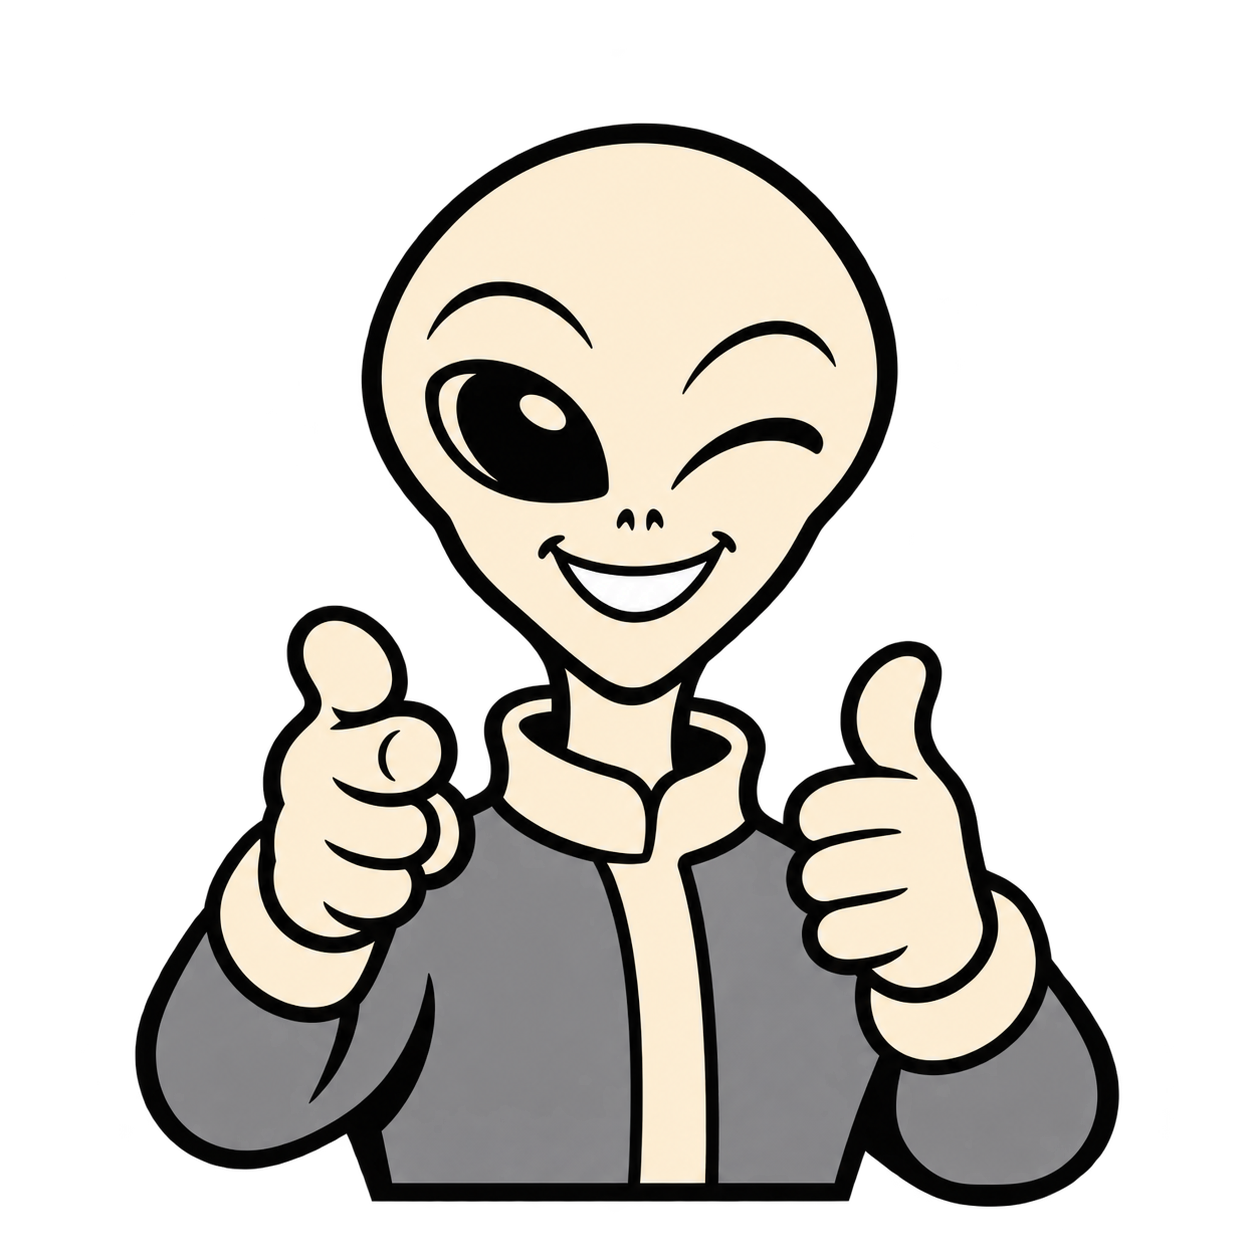
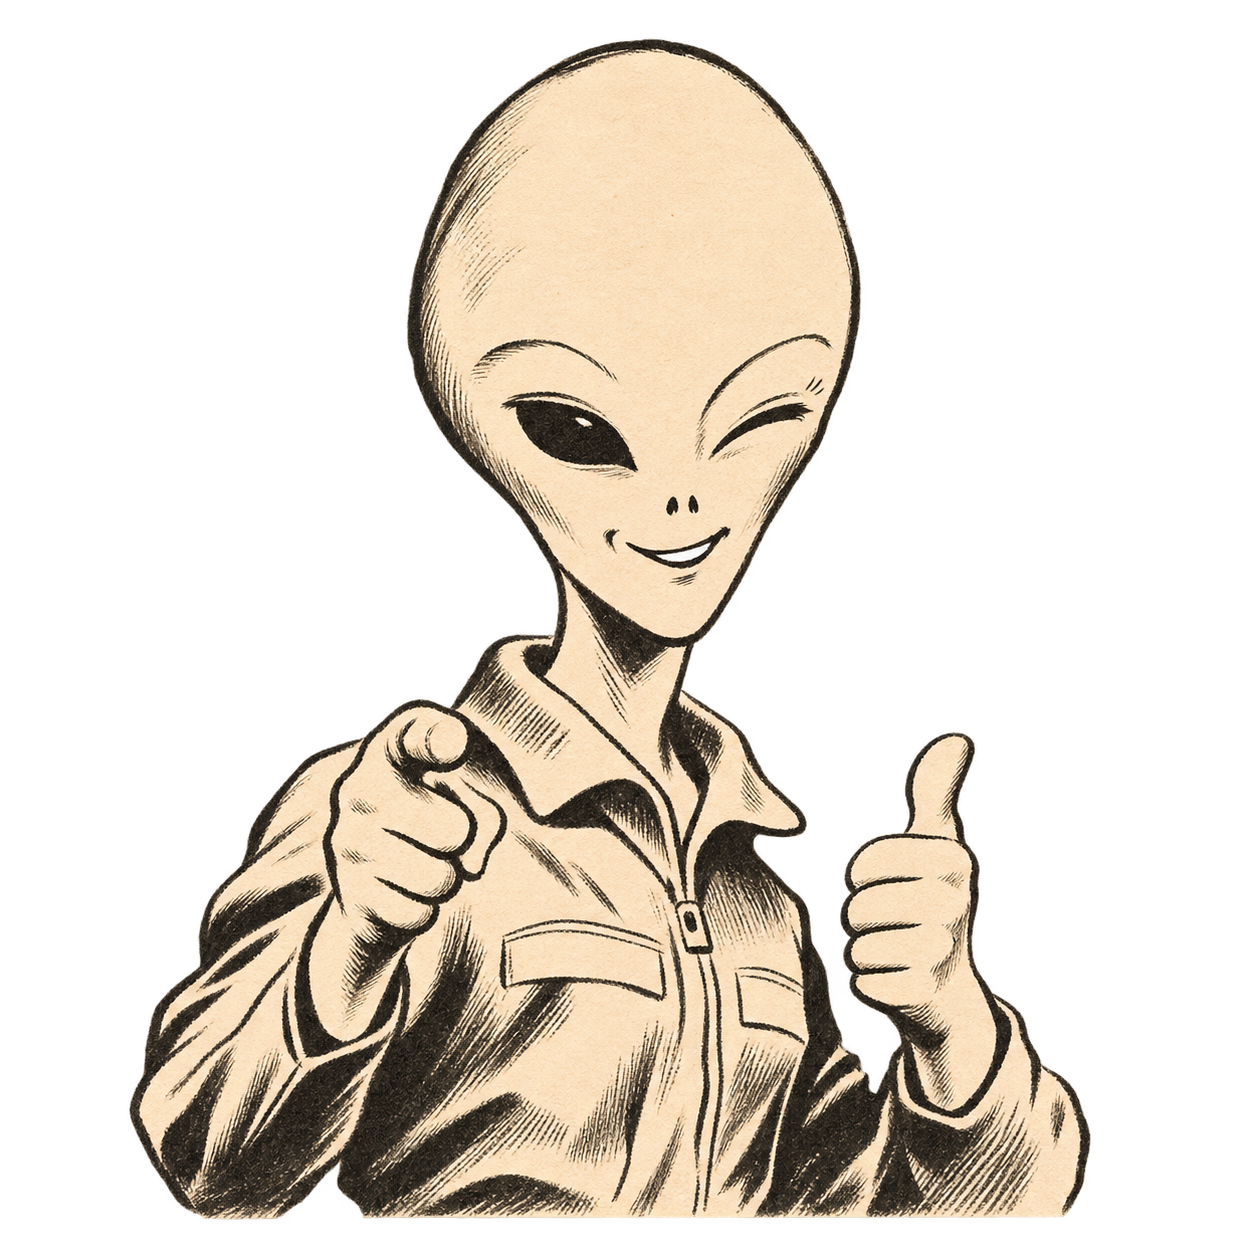
Revise standby alien with vintage pen-and-ink styling (#21)

diff --git a/uap-lab/static/index.html b/uap-lab/static/index.html
@@ -1,4 +1,4 @@
-<!doctype html><html lang="en"><head><meta charset="utf-8"><meta name="viewport" content="width=device-width,initial-scale=1"><title>UAP Training Lab</title><link rel="stylesheet" href="/app-shell.css?v=3"><script src="/app-shell.js?v=5" defer></script><link rel="stylesheet" href="/style.css?v=right-back-3"></head><body class="live-mode">
+<!doctype html><html lang="en"><head><meta charset="utf-8"><meta name="viewport" content="width=device-width,initial-scale=1"><title>UAP Training Lab</title><link rel="stylesheet" href="/app-shell.css?v=3"><script src="/app-shell.js?v=5" defer></script><link rel="stylesheet" href="/style.css?v=right-back-4"></head><body class="live-mode">
 <header class="app-controls"><button id="menuToggle" class="icon-button" aria-label="Open navigation" aria-expanded="false" aria-controls="mainNav"><svg viewBox="0 0 24 24" aria-hidden="true" focusable="false"><path d="M3 6h18M3 12h18M3 18h18"/></svg></button><nav id="mainNav" aria-label="Main navigation" hidden><button id="liveTab" class="active">Camera</button><button id="labelTab">Review detections</button><button id="testTab">Test model</button><a href="/metrics">Metrics</a><a href="/training">Hourly training</a><a href="/tracks">Labeled objects</a></nav><button id="infoToggle" class="icon-button" aria-label="Open information" aria-expanded="false" aria-controls="infoPanel"><svg viewBox="0 0 24 24" aria-hidden="true" focusable="false"><path d="M12 10v8M10 18h4"/><circle cx="12" cy="6" r="1" fill="currentColor" stroke="none"/></svg></button><aside id="infoPanel" aria-label="Live information" hidden><h2>Live</h2><p>Original video is continuously buffered on the SSD. Motion candidates create provisional clips; they are not confirmed anomalies.</p><p id="publishStatus" class="muted" role="status" hidden></p><p>Capture-first mode: motion candidates save provisional evidence. They are not confirmed anomalies.</p><p>Native frames are processed in sequence, with backlog and missing frames reported below. Event windows request 10 seconds of context before and after motion; interruptions and shortened windows are recorded. Native-frame proposals are classified locally. Confirm or correct saved suggestions in labeling. Uncertain and failed results remain available for review. Model suggestions remain unconfirmed. Only anomalous sessions confirmed in the web UI are uploaded to Internet Archive, with raw and annotated video.</p><p id="recognitionStatus" class="muted" role="status">Local recognition starting…</p><p id="nativeAnalysisStatus" class="muted" role="status">Native analysis starting…</p><p class="muted">The session switch controls manual recording. Automatic provisional capture remains armed. RF power is shown in relative dB, not calibrated dBm.</p></aside></header>
 <main><div id="notice" role="status" aria-live="polite">Loading videos…</div>
 <section id="labelLibrary"><label for="labelSource">Review queue</label><select id="labelSource"><option value="all">All unreviewed videos</option><option value="recorded">Recorded clips</option><option value="model-detection">Model detections</option><option value="motion-collection">Motion collection</option><option value="imported">Imported videos</option></select><label for="labelVideo">Choose a video to label</label><select id="labelVideo"><option value="">Loading recordings…</option></select><p id="labelQueueStatus" class="muted" role="status"></p></section><div id="labelScreen"><div class="video-heading"><div><p id="queueProgress" class="muted"></p><h2 id="videoTitle">Your next video</h2></div><label class="upload">Add video<input type="file" id="upload" accept="video/*,.mkv,.mts" hidden></label></div><progress id="uploadProgress" max="100" value="0" hidden></progress>
@@ -15,6 +15,6 @@
 <div class="test-grid" aria-hidden="true"></div>
 <div class="test-bars test-bars-top" aria-hidden="true"></div><div class="test-bars test-bars-bottom" aria-hidden="true"></div>
 <div class="test-ring" aria-hidden="true"><span class="test-cross test-cross-h"></span><span class="test-cross test-cross-v"></span></div>
-<div class="test-message"><div class="test-portrait" aria-hidden="true"><img class="test-emblem" src="/ufo-engraving.png?v=buddy-flat-8" alt=""></div><strong>WE'LL BE RIGHT BACK</strong><span class="test-standby">PLEASE STAND BY</span></div>
+<div class="test-message"><div class="test-portrait" aria-hidden="true"><img class="test-emblem" src="/ufo-engraving.png?v=buddy-vintage-9" alt=""></div><strong>WE'LL BE RIGHT BACK</strong><span class="test-standby">PLEASE STAND BY</span></div>
 <svg class="test-grain" aria-hidden="true" focusable="false" xmlns="http://www.w3.org/2000/svg"><defs><filter id="crt-grain"><feTurbulence type="fractalNoise" baseFrequency=".8" numOctaves="1" stitchTiles="stitch"/><feColorMatrix type="saturate" values="0"/><feComponentTransfer><feFuncA type="linear" slope="0" intercept="1"/></feComponentTransfer></filter></defs><rect width="100%" height="100%" filter="url(#crt-grain)"/></svg>
 </div><p id="liveStatus" class="live-health" data-state="connecting" role="status" aria-label="Live feed connecting"><span class="status-dot" aria-hidden="true"></span><span>Live</span></p><div id="rfOverlay" class="rf-overlay" aria-label="Live RF spectrum"><div class="session-control"><label id="sessionLabel" for="sessionToggle">Manual Recording</label><input id="sessionToggle" type="checkbox" role="switch" aria-label="Manual Recording" aria-describedby="sessionStatus" disabled><span id="sessionStatus" role="status"></span></div><div class="rf-heading"><span>RF spectrum</span><span id="rfStatus" role="status">Connecting…</span></div><canvas id="rfNarrow" width="600" height="140" role="img" aria-label="Narrow-band RF power spectrum"></canvas><canvas id="rfWide" width="600" height="140" role="img" aria-label="Wide-band RF power spectrum"></canvas></div></div></section></main><script src="/app.js?v=32"></script></body></html>

diff --git a/uap-lab/static/style.css b/uap-lab/static/style.css
@@ -74,7 +74,7 @@ button:focus-visible,input:focus-visible,select:focus-visible,a:focus-visible{ou
 .test-message strong{position:absolute;top:calc(50% + 4vmin);left:0;display:block;box-sizing:border-box;width:100%;padding:2vmin 4vmin;background:#9bc98c;color:#08130d;font-size:clamp(20px,6vmin,72px);line-height:1.1;font-weight:700;letter-spacing:.04em;white-space:nowrap;border-block:1vmin solid #08130d}
 .test-standby{position:absolute;top:calc(50% + 20vmin);left:50%;transform:translateX(-50%);white-space:nowrap;font-size:clamp(12px,2.2vmin,24px);letter-spacing:.2em;background:#08130d;padding:1vmin 2vmin}
 .test-portrait{position:absolute;left:50%;bottom:50%;width:28vmin;height:28vmin;min-width:120px;min-height:120px;transform:translateX(-50%);overflow:hidden}
-.test-message .test-emblem{display:block;width:100%;height:100%;transform:translateY(7%);object-fit:contain;background:transparent;filter:grayscale(1) sepia(1) hue-rotate(45deg) saturate(1.2) brightness(.9);padding:0}
+.test-message .test-emblem{display:block;width:100%;height:100%;transform:translateY(5%);object-fit:contain;background:transparent;filter:grayscale(1) sepia(1) hue-rotate(45deg) saturate(1.2) brightness(.9);padding:0}
 .no-camera-signal .rf-overlay{background:#08130df2!important;color:#9bc98c!important;padding:12px;border:1px solid #9bc98c}
 body.live-mode:has(.no-camera-signal) .station-header .station-brand,body.live-mode:has(.no-camera-signal) .station-header .station-page-title,body.live-mode:has(.no-camera-signal) .station-header .station-menu-button,body.live-mode:has(.no-camera-signal) .station-header #infoToggle{color:#9bc98c!important}
 body.live-mode:has(.no-camera-signal) .station-header .station-page-title{border-left-color:#9bc98c44}

diff --git a/docs/no-signal-artwork.md b/docs/no-signal-artwork.md
@@ -41,3 +41,9 @@ Use case: style-transfer. Edit the supplied alien illustration for the central e
 The user supplied a Vault Boy illustration as the direct style reference. The active emblem uses bold contours, simplified shapes and a single white cartoon smile; CRT grain remains in the markup overlay. Generated with built-in imagegen, using the supplied style reference and previous alien pose. Final prompt:
 
 Use case: style-transfer. Image 1 is the STYLE reference supplied by the user: Fallout Vault Boy. Image 2 is the alien edit target and POSE reference only. Completely redraw the alien in Image 1's bold flat cartoon visual language. Thick smooth black contours, very few interior lines, flat ivory and gray fills with only one flat shadow tone, simple rounded mid-century advertising cartoon anatomy. Absolutely NO engraving, hatching, stippling, distressed texture, gradients, realistic anatomy or rendered shading. Use the cheerful simple white crescent smile from the Vault Boy style reference: a single white tooth shape, no individual teeth or dental divisions, small black mouth corners. One playful wink and one simplified black almond alien eye; bald grey-alien head, shorter and rounder than the edit target, charming confident expression. Plain retro flight suit without logos. Preserve BOTH gestures: viewer-left hand pointing straight toward viewer, viewer-right hand thumbs-up, all fingers simplified like the reference. Centered chest-up compact bust with both complete hands visible, torso terminating at a level horizontal bottom edge; fill square composition with about 4 percent clear margin. Transparent background, no paper, no frame, no text, no scenery. The reference's bold clean flat shapes are essential; the previous engraved look must be completely removed. Keep monochrome ivory/gray/black so application can tint it CRT green.
+
+## Current vintage ink revision
+
+The flat cartoon revision was rejected. The active illustration uses period pen-and-ink linework, a restrained smile, and a three-quarter pose. Generated with built-in imagegen using the previous pose as reference. Final prompt:
+
+Use case: style-transfer. Redraw the supplied alien mascot as an authentic vintage 1940s printed book illustration, with the hand-drawn character of period children's book art and commercial spot illustrations. The previous digital cartoon is rejected. Use graceful variable-width dip-pen contours and dry brush black shadows, restrained hand-laid parallel hatching only in shadow areas, slightly imperfect printed ink edges, warm ivory paper-colored interior shapes but genuinely transparent surroundings. Tasteful confident period illustration, distinctive and sophisticated, not modern vector clip art. Proportions: slender adult grey alien, tall oval bald cranium, narrower face, smaller matte black almond eyes without giant glossy highlights, an understated asymmetric friendly smile showing just a sliver of white teeth, no individual teeth, no enormous grin, no exaggerated eyebrows. A subtle wink. Plain vintage workman's flight coverall with folded collar. Keep the pose: one hand points at the viewer, other hand gives thumbs up; natural elegant simplified hands, all visible. Torso and shoulders with a slight three-quarter turn to avoid stiff symmetrical sticker composition; face looks at viewer. Centered chest-up bust, horizontal bottom crop, approximately 4% margin on all sides. Black and ivory only. No background, paper rectangle, text, typography, border, circle, logos, stars or scenery. Avoid gradients, glossy rendering, cute baby anatomy, rubber hose limbs, uniform heavy vector strokes, emoji face, creepy toothy grin. The result should look scanned from a beautifully drawn 1940s book rather than generated digital mascot art.
